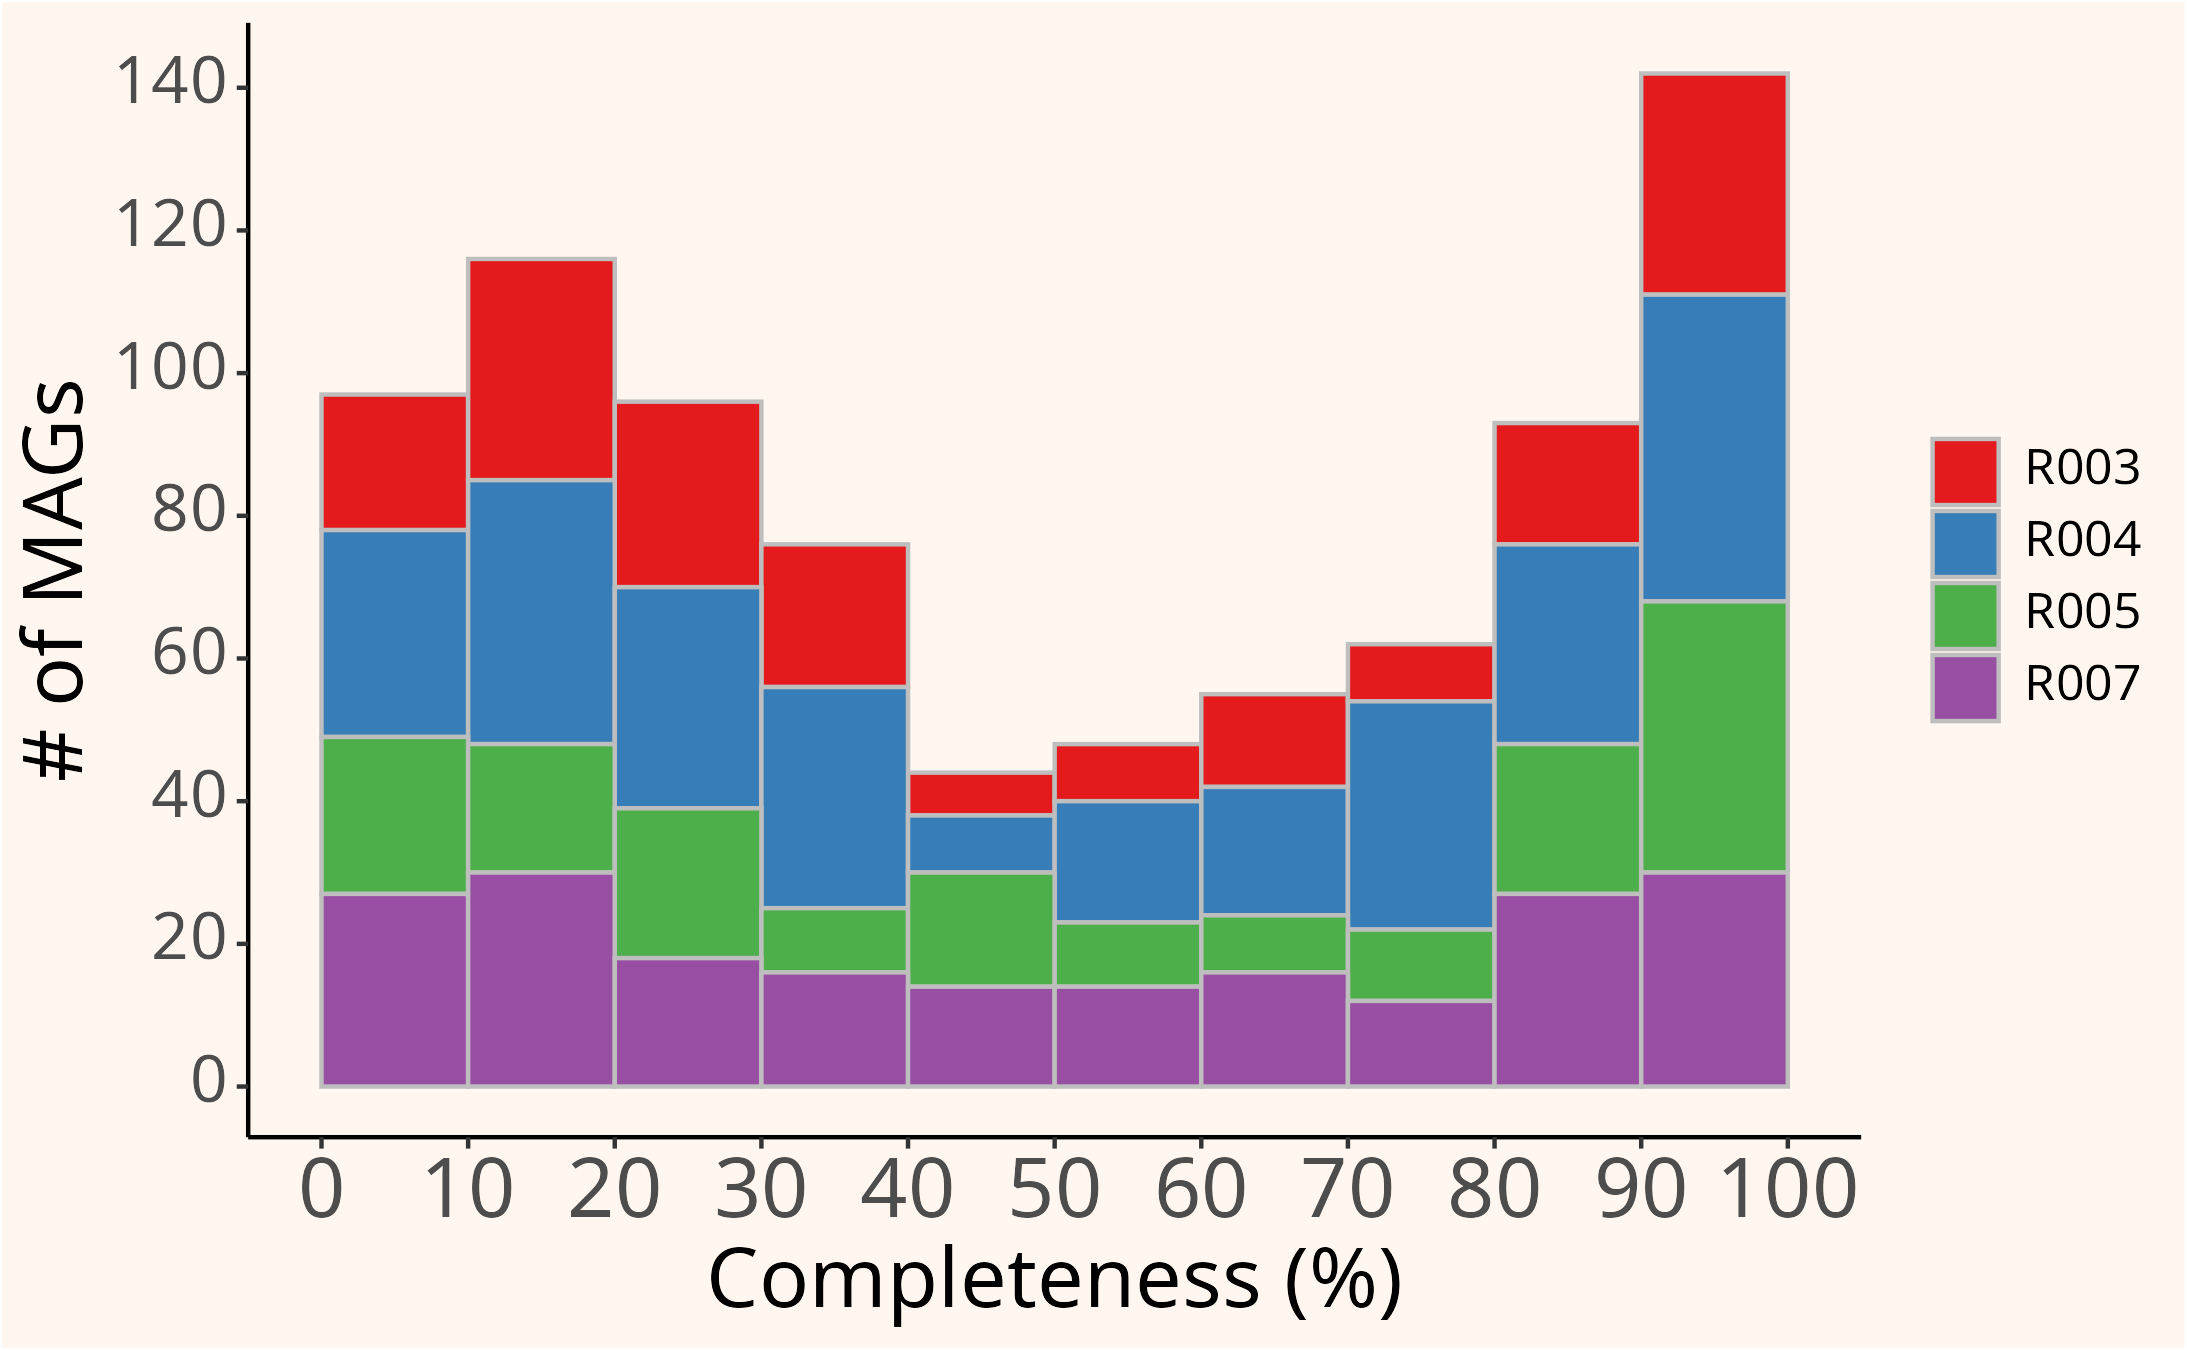
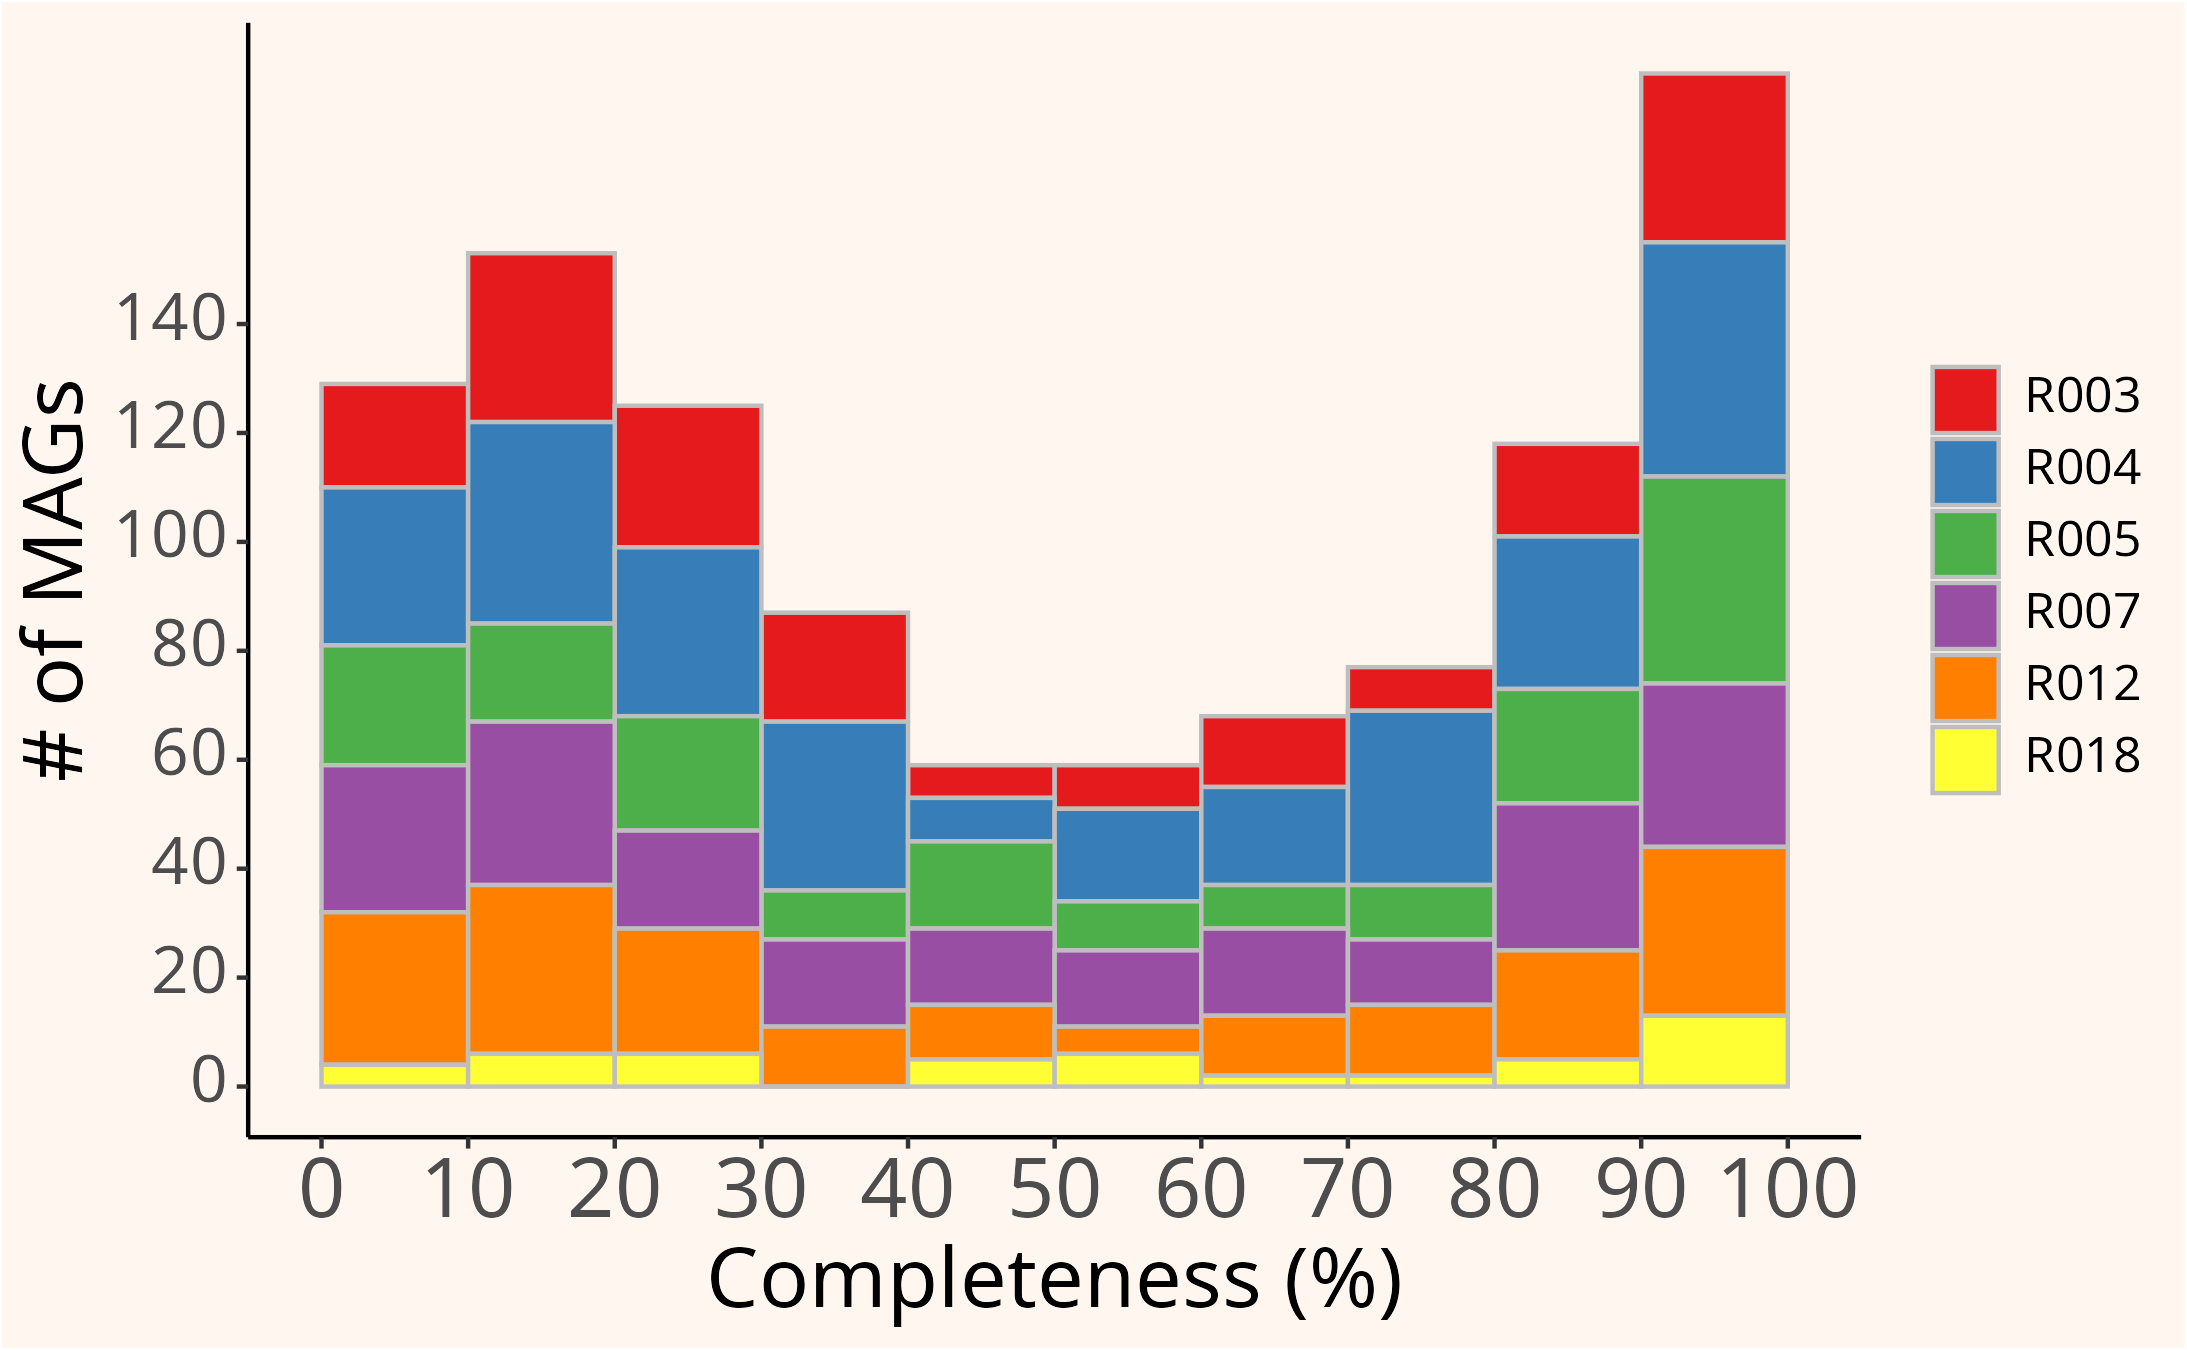
last 2 busco summaries

diff --git a/python/generate_tsv_from_busco_summaries.py b/python/generate_tsv_from_busco_summaries.py
@@ -6,7 +6,7 @@ def generate_tsv_from_busco_summaries(busco_summaries_folder):
 	busco_summary_data = []
 
 	for filename in os.listdir(busco_summaries_folder):
-		json_file = open(busco_summaries_folder + "\\" + filename)
+		json_file = open(busco_summaries_folder + "/" + filename)
 		json_data = json.load(json_file)
 
 		busco_data_entry = {}
@@ -69,11 +69,13 @@ def generate_tsv_from_busco_summaries(busco_summaries_folder):
 			busco_summary_tsv += str(data_entry[tsv_colnames[i]]) + ("\t" if i < len(tsv_colnames) - 1 else "")
 
 	# I know, I know, it's hard-coded...!!
-	file = open("C:\\Users\\horat\\Desktop\\msc_2025\\R\\data\\busco_tsv\\RAMAN_R007.tsv", "w")
+	#file = open("C:\\Users\\horat\\Desktop\\msc_2025\\R\\data\\busco_tsv\\RAMAN_R012.tsv", "w")
+	file = open("../R/data/busco_tsv/RAMAN_R018.tsv", "w+")
 	file.write(busco_summary_tsv)
 	file.close()
 
 	return busco_summary_tsv
 
 if __name__ == "__main__":
-	generate_tsv_from_busco_summaries("C:\\Users\\horat\\Desktop\\msc_2025\\R\\data\\busco_summaries\\RAMAN_R007")
+	#generate_tsv_from_busco_summaries("C:\\Users\\horat\\Desktop\\msc_2025\\R\\data\\busco_summaries\\RAMAN_R012")
+	generate_tsv_from_busco_summaries("../R/data/busco_summaries/RAMAN_R018")
